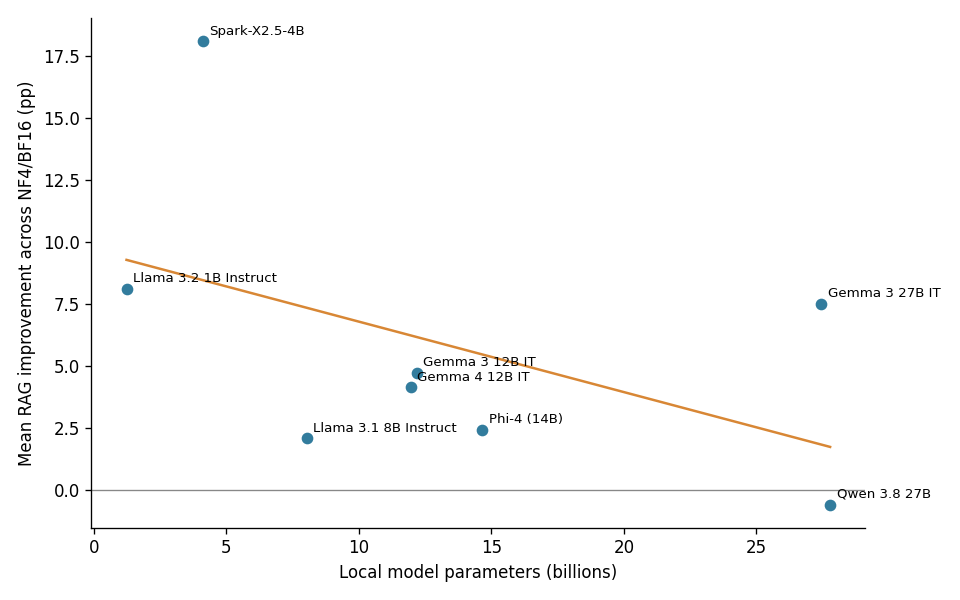
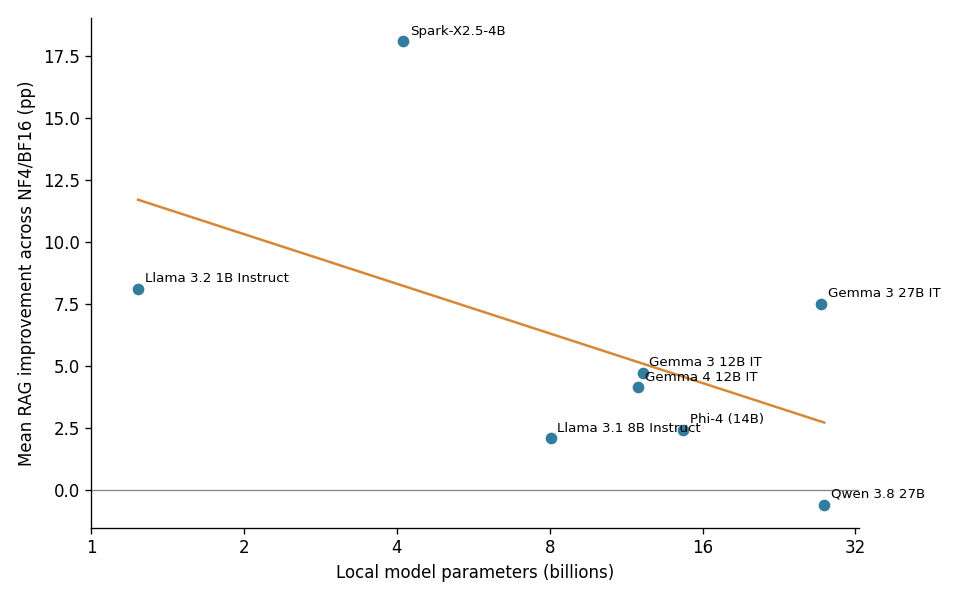
Align exploratory size regression with thesis log2 scale

diff --git a/METHODS.md b/METHODS.md
@@ -42,4 +42,4 @@ Per-system contrasts use paired differences, source-book-stratified bootstrap in
 
 The current 19-system aggregate is 68.82% without RAG and 73.67% with RAG: +4.85 percentage points. Earlier 20-system summaries are not the primary cohort. The saved aggregate estimates are in `results/analysis/clinical/AGGREGATE_RESULTS.json` and are reproduced by notebook 09.
 
-Model-size associations use the eight local parameter counts. Closed-model parameter counts are unknown and are not treated as measured values. Family, architecture, training and size are confounded in this small model sample. GPU measurements report allocated and reserved memory separately; hardware, prompt length and deployment differences limit latency comparisons.
+Model-size associations regress the mean NF4/BF16 RAG effect on log₂ parameter count across the eight local models. Closed-model parameter counts are unknown and are not treated as measured values. Family, architecture, training and size are confounded in this small model sample. GPU measurements report allocated and reserved memory separately; hardware, prompt length and deployment differences limit latency comparisons.
